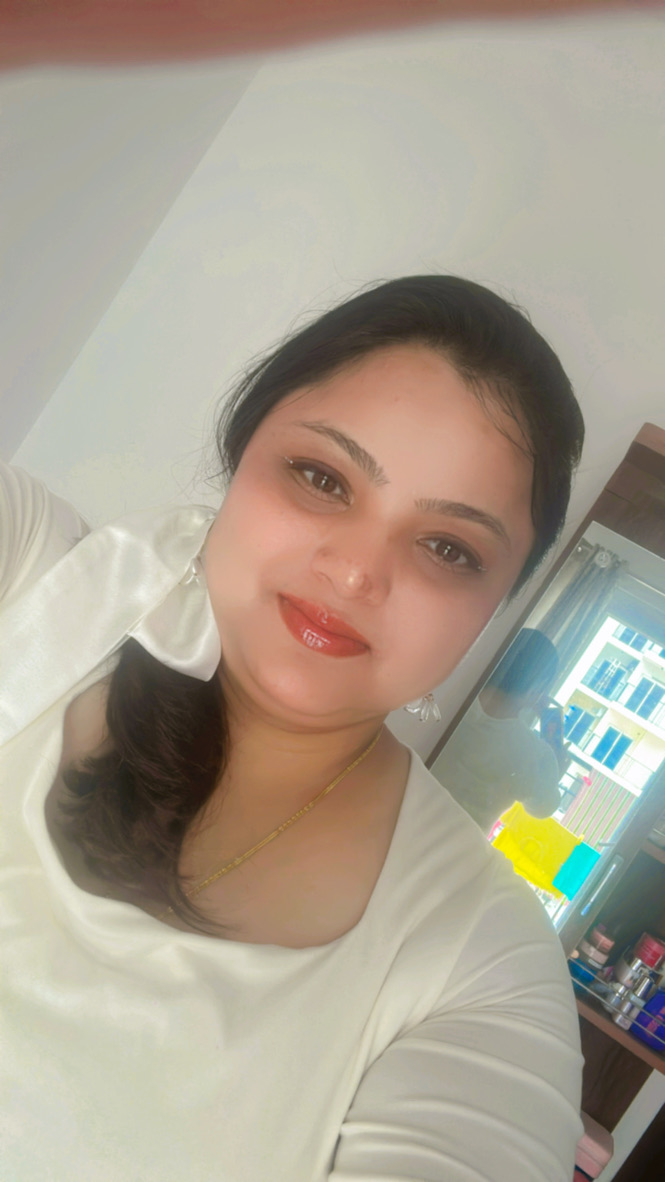
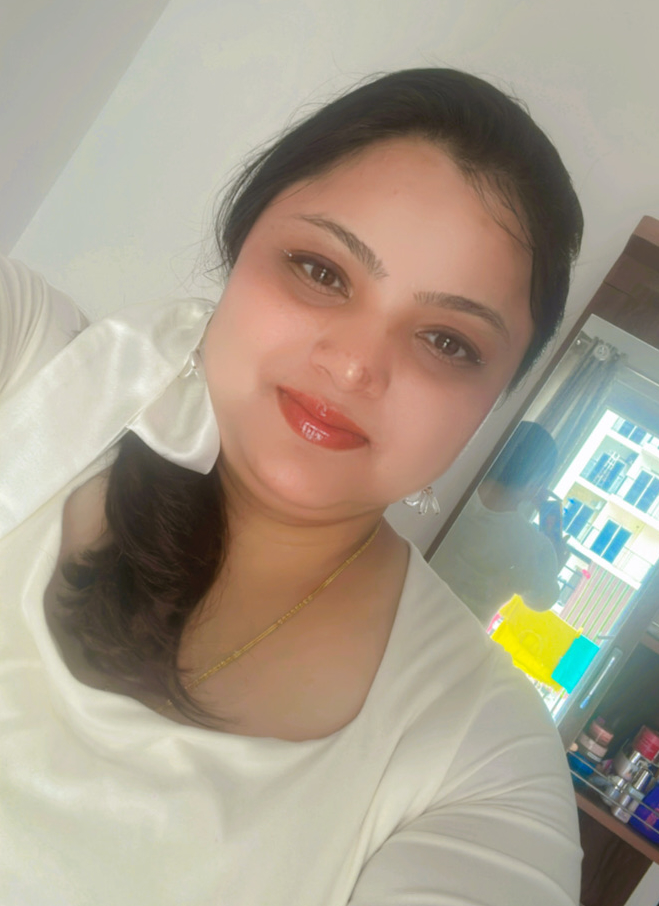
fixes

diff --git a/index.html b/index.html
@@ -23,7 +23,7 @@
   }
 
   *{box-sizing:border-box; margin:0; padding:0;}
-  html{scroll-behavior:smooth; -webkit-text-size-adjust:100%;}
+  html{scroll-behavior:smooth; -webkit-text-size-adjust:100%; font-size:112.5%;}
   body{overflow-x:hidden;}
   img,svg{max-width:100%; display:block;}
   .container{width:100%;}
@@ -141,7 +141,7 @@
 
   /* ================= HERO ================= */
   .hero{
-    min-height:100vh;
+    min-height:89vh;
     background:
       linear-gradient(180deg, rgba(27,15,9,0.15) 0%, rgba(27,15,9,0.75) 78%, var(--chocolate-deep) 100%),
       var(--chocolate);
@@ -155,15 +155,15 @@
     display:grid;
     grid-template-columns:1.05fr 0.95fr;
     align-items:stretch;
-    min-height:100vh;
+    min-height:89vh;
   }
   .hero-copy{
     position:relative; z-index:3;
-    padding:min(14vw,150px) 6vw 70px;
-    display:flex; flex-direction:column; justify-content:flex-end;
+    padding:66px 6vw 0;
+    display:flex; flex-direction:column; justify-content:center;
     color:var(--cream-soft);
   }
-  .hero-copy .eyebrow{color:var(--gold-bright); margin-bottom:22px; display:flex; align-items:center; gap:14px;}
+  .hero-copy .eyebrow{color:var(--gold-bright); margin-bottom:18px; display:flex; align-items:center; gap:14px;}
   .hero-copy .eyebrow::before{content:''; width:34px; height:1px; background:var(--gold);}
   .hero-name{
     font-size:clamp(3rem, 7vw, 5.6rem);
@@ -190,7 +190,7 @@
     padding:2px;
   }
   .hero-tagline{
-    margin-top:26px;
+    margin-top:20px;
     max-width:460px;
     font-size:1.02rem;
     line-height:1.75;
@@ -198,7 +198,7 @@
     color:rgba(246,238,223,0.82);
   }
   .hero-cta{
-    margin-top:40px;
+    margin-top:30px;
     display:flex; gap:16px; flex-wrap:wrap;
   }
   .btn{
@@ -222,7 +222,7 @@
   }
   .hero-image-wrap img{
     width:100%; height:100%;
-    object-fit:cover; object-position:center 18%;
+    object-fit:cover; object-position:center 27%;
     filter:saturate(1.02) contrast(1.02);
   }
   .hero-image-wrap::after{
@@ -243,7 +243,7 @@
   }
 
   .hero-seal{
-    position:absolute; top:100px; right:6vw; z-index:4;
+    position:absolute; top:92px; right:6vw; z-index:4;
   }
   @media (max-width:860px){ .hero-seal{display:none;} }
 
@@ -491,6 +491,7 @@
 
   /* ---------- extra small screens ---------- */
   @media (max-width:600px){
+    html{font-size:106%;}
     section{padding:76px 0;}
     .stat-cell{padding:26px 18px;}
     .stat-cell .num{font-size:2.1rem;}
@@ -1078,10 +1079,10 @@
         <div class="eyebrow" style="color:var(--gold-bright); margin-bottom:14px;">@creative_er05</div>
         <h3 style="color:var(--white);">Creative Er</h3>
         <p style="color:var(--beige);">The extended-format counterpart to the Instagram feed — longer tutorials, deeper reviews, and behind-the-scenes creative process for the audience that wants more than sixty seconds.</p>
-        <a class="btn filled" href="https://youtube.com/@creative_er05" target="_blank" rel="noopener">Visit the Channel</a>
+        <a class="btn filled" href="https://www.youtube.com/@creative_er05" target="_blank" rel="noopener">Visit the Channel</a>
       </div>
       <div class="yt-embed-frame">
-        <iframe src="https://www.youtube-nocookie.com/embed/videoseries?list=UU3uTNvwIXmPGVCh3nhO2BCA&amp;rel=0" title="Latest uploads from @cReative_er05 on YouTube" allow="accelerometer; autoplay; clipboard-write; encrypted-media; gyroscope; picture-in-picture; web-share" referrerpolicy="strict-origin-when-cross-origin" allowfullscreen loading="lazy"></iframe>
+        <iframe src="https://www.youtube-nocookie.com/embed/EeUd7fRZ6pM?rel=0" title="Latest video from @creative_er05 on YouTube" allow="accelerometer; autoplay; clipboard-write; encrypted-media; gyroscope; picture-in-picture; web-share" referrerpolicy="strict-origin-when-cross-origin" allowfullscreen loading="lazy"></iframe>
       </div>
     </div>
   </div>
@@ -1095,7 +1096,7 @@
     <div class="contact-btns">
       <a class="btn filled" href="https://www.instagram.com/beauty_full_soul05" target="_blank" rel="noopener">Message on Instagram</a>
       <a class="btn" href="https://wa.me/919266321465" target="_blank" rel="noopener">WhatsApp: +91 92663 21465</a>
-      <a class="btn" href="https://youtube.com/@creative_er05" target="_blank" rel="noopener">YouTube Channel</a>
+      <a class="btn" href="https://www.youtube.com/@creative_er05" target="_blank" rel="noopener">YouTube Channel</a>
     </div>
     <div class="agency-line">Collab enquiries welcome on WhatsApp at <b>+91 92663 21465</b></div>
   </div>
@@ -1103,7 +1104,7 @@
 
 <footer>
   <div>© 2026 Shubhangi — Beauty Full Soul. Media Kit.</div>
-  <div><a href="https://www.instagram.com/beauty_full_soul05" target="_blank" rel="noopener">instagram.com/beauty_full_soul05</a> &nbsp;·&nbsp; <a href="https://youtube.com/@creative_er05" target="_blank" rel="noopener">youtube.com/@creative_er05</a> &nbsp;·&nbsp; <a href="https://wa.me/919266321465" target="_blank" rel="noopener">WhatsApp +91 92663 21465</a></div>
+  <div><a href="https://www.instagram.com/beauty_full_soul05" target="_blank" rel="noopener">instagram.com/beauty_full_soul05</a> &nbsp;·&nbsp; <a href="https://www.youtube.com/@creative_er05" target="_blank" rel="noopener">youtube.com/@creative_er05</a> &nbsp;·&nbsp; <a href="https://wa.me/919266321465" target="_blank" rel="noopener">WhatsApp +91 92663 21465</a></div>
 </footer>
 
 <script>
